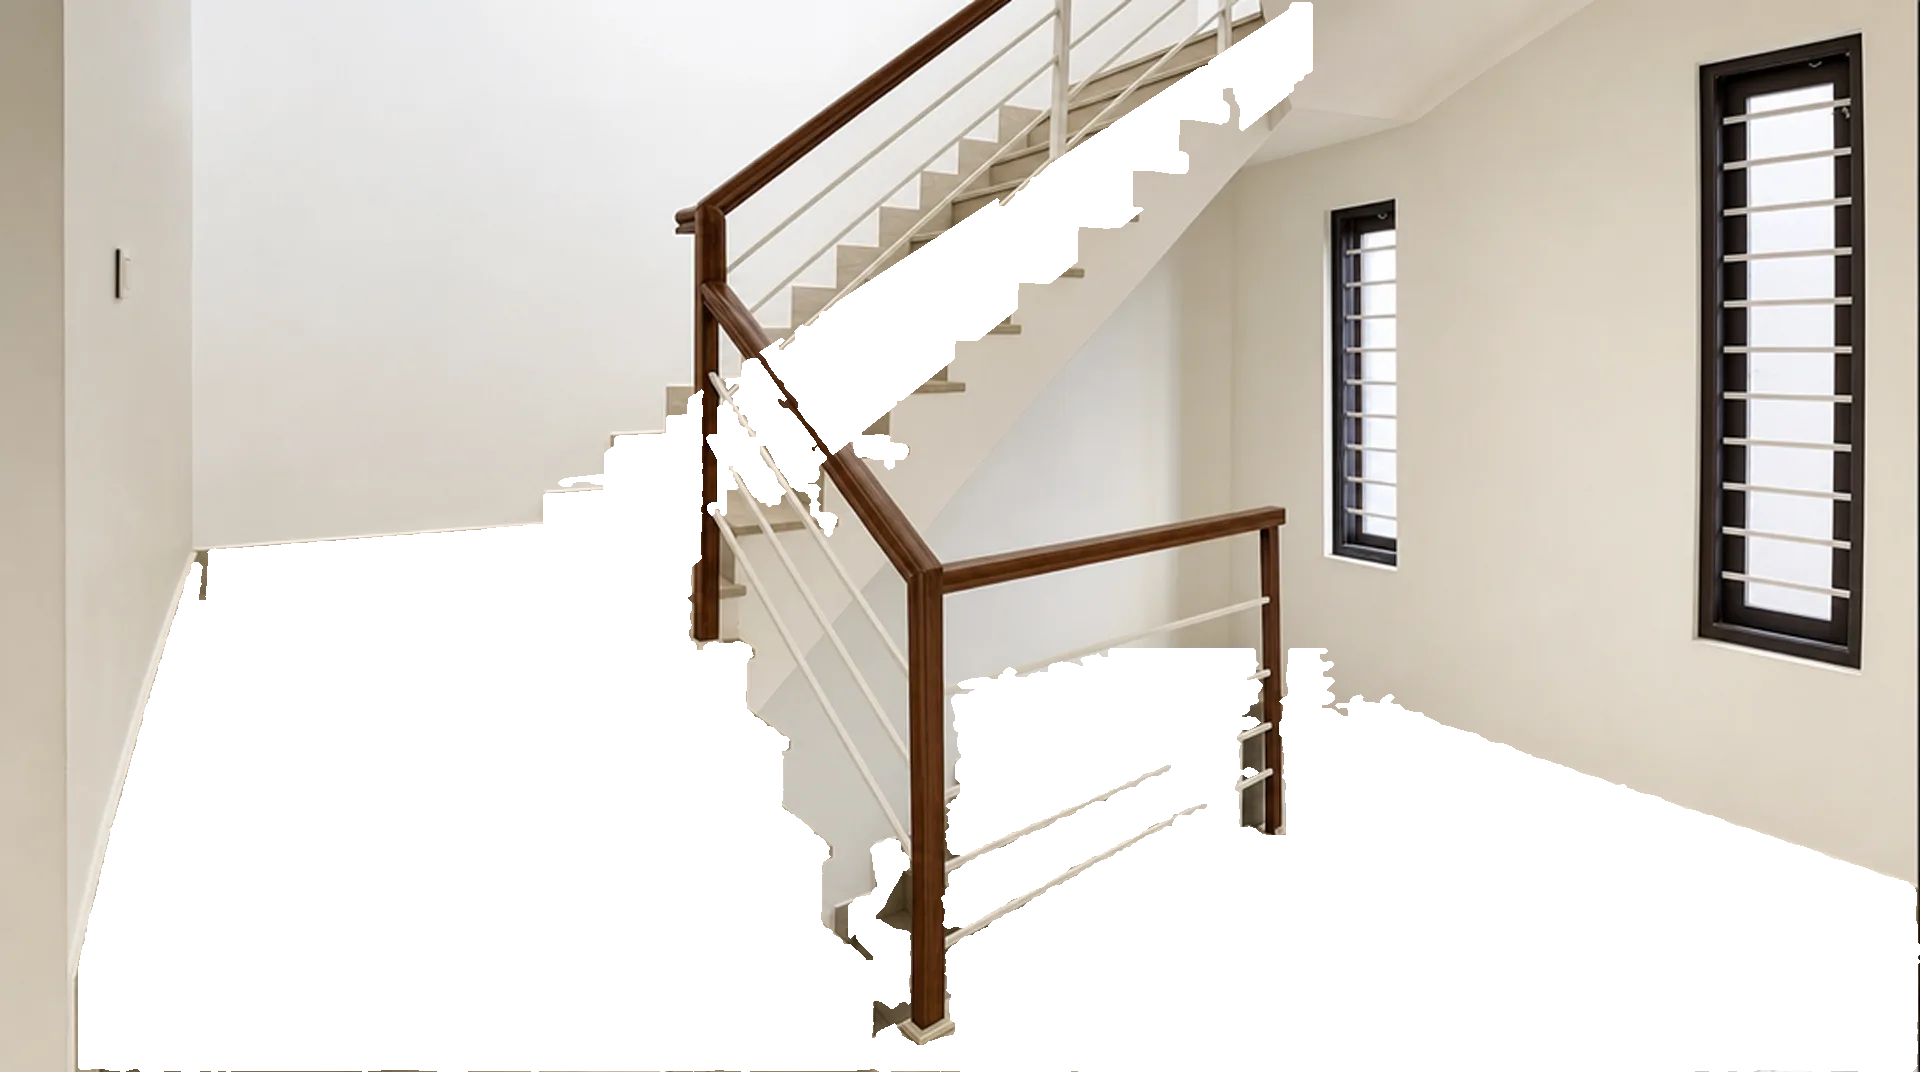
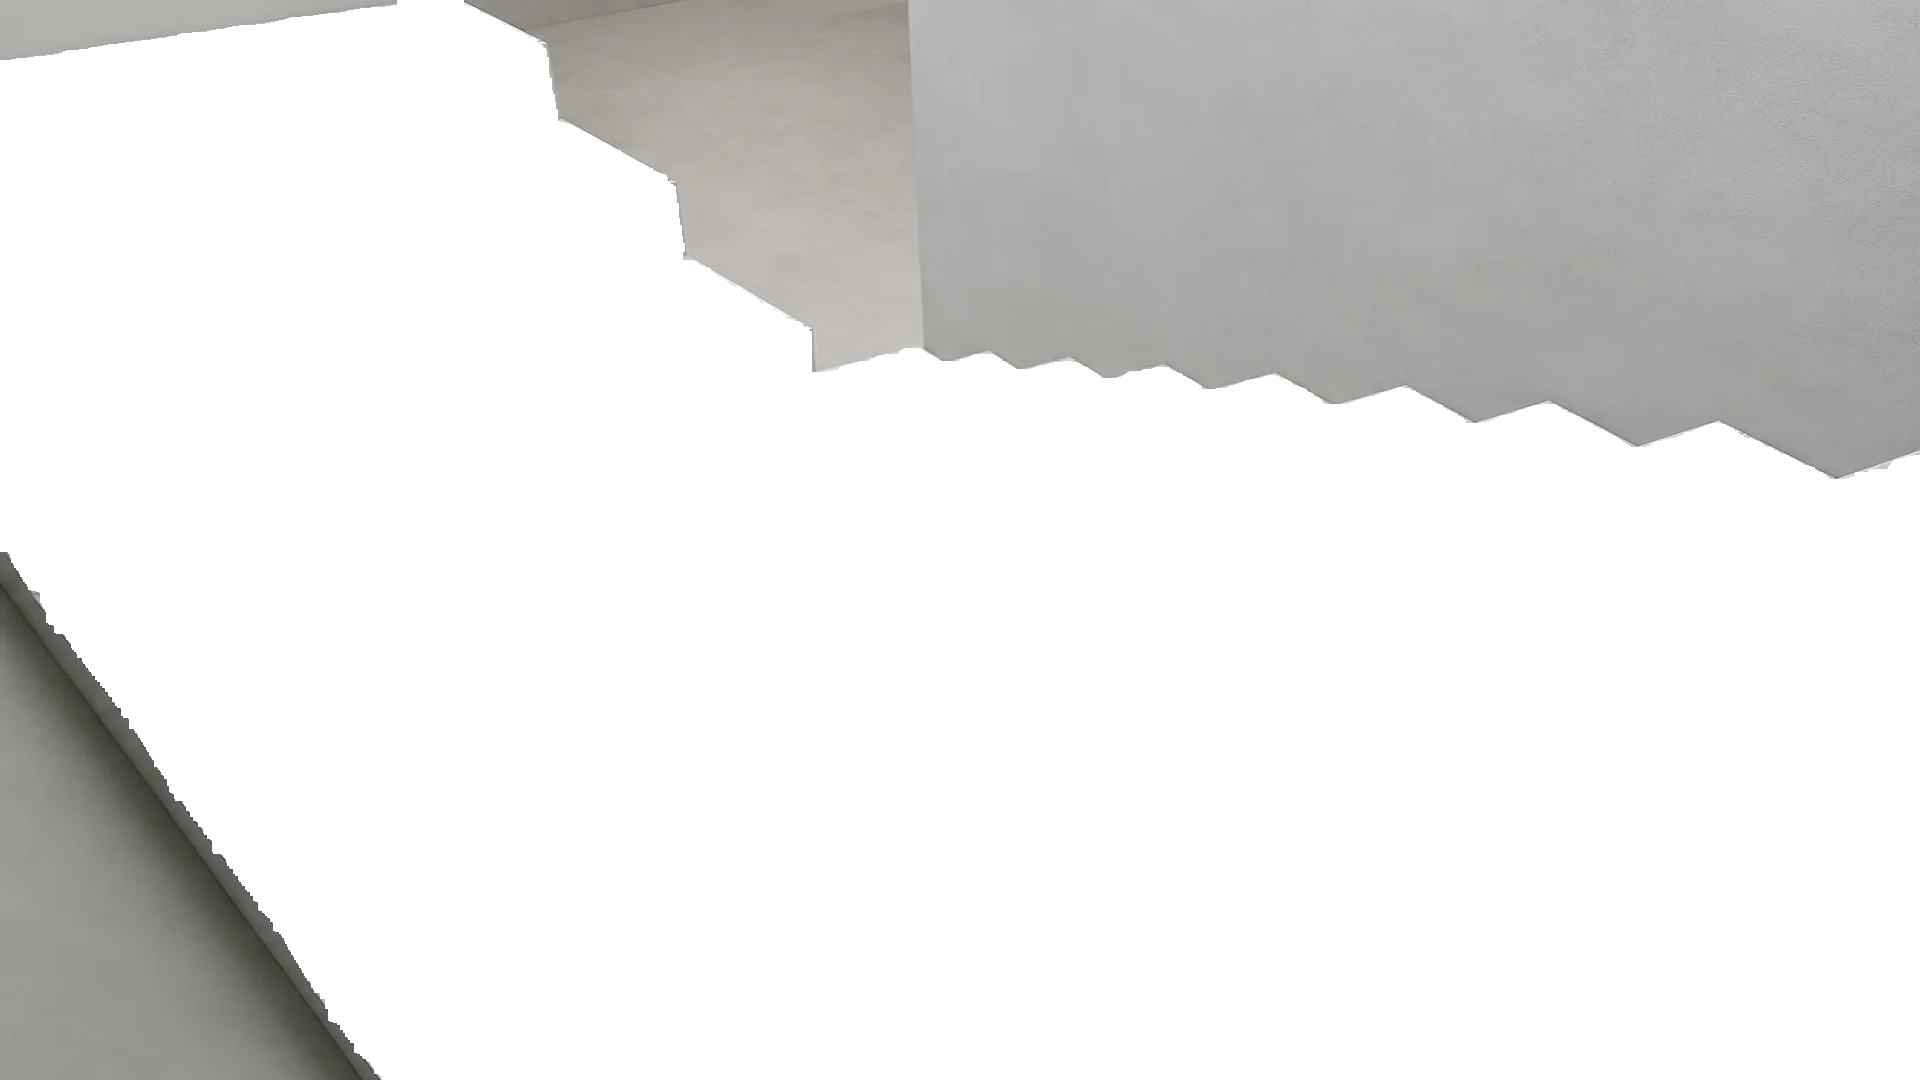
feat(2d): warp staircase tiles onto treads without mask holes

diff --git a/src/components/visualizer2d/composeRoom.js b/src/components/visualizer2d/composeRoom.js
@@ -5,7 +5,7 @@ import { loadImage } from './loadImage'
 /**
  * 2D room compositor — mask + fill + overlay with realism extras:
  *  - Seamless createPattern (stable default)
- *  - Optional floor/wall perspective quad (homography grid warp)
+ *  - Optional photo-plane quads (per-tread / landing warp, still 2D)
  *  - Luminance multiply from base.png (room light/shadow recovery)
  *  - Soft mask feather (no fake per-cell grid lines)
  *
@@ -396,14 +396,63 @@ function drawTexturedTriangle(ctx, img, s0, s1, s2, d0, d1, d2) {
   ctx.restore()
 }
 
-/** Normalize zone.perspectiveQuad (0–1 corners) → pixel quad. */
-function resolveQuad(zone, width, height) {
-  const q = zone.perspectiveQuad
+function toPixelQuad(q, width, height) {
   if (!q || q.length !== 4) return null
   return q.map((p) => ({
     x: (Array.isArray(p) ? p[0] : p.x) * width,
     y: (Array.isArray(p) ? p[1] : p.y) * height,
   }))
+}
+
+/** One or more photo-plane quads (normalized 0–1 corners, TL TR BR BL). */
+function resolveQuads(zone, width, height) {
+  if (Array.isArray(zone.perspectiveQuads) && zone.perspectiveQuads.length) {
+    return zone.perspectiveQuads.map((q) => toPixelQuad(q, width, height)).filter(Boolean)
+  }
+  const one = toPixelQuad(zone.perspectiveQuad, width, height)
+  return one ? [one] : []
+}
+
+function edgeLen(a, b) {
+  return Math.hypot(a.x - b.x, a.y - b.y)
+}
+
+/**
+ * Warp a screen-sized slice of the repeating pattern onto one dest quad.
+ * Source size follows the quad edges so tiles stay the right scale
+ * (mapping the full plate onto a tread would squash every tile onto one step).
+ */
+function warpPatternToQuad(patternCanvas, quad, width, height, grid) {
+  const [tl, tr, br, bl] = quad
+  const srcW = Math.max(16, Math.round((edgeLen(tl, tr) + edgeLen(bl, br)) / 2))
+  const srcH = Math.max(16, Math.round((edgeLen(tl, bl) + edgeLen(tr, br)) / 2))
+  const src = document.createElement('canvas')
+  src.width = srcW
+  src.height = srcH
+  const sctx = src.getContext('2d')
+  sctx.imageSmoothingEnabled = true
+  sctx.imageSmoothingQuality = 'high'
+  const pat = sctx.createPattern(patternCanvas, 'repeat')
+  if (pat) {
+    sctx.fillStyle = pat
+    sctx.fillRect(0, 0, srcW, srcH)
+  } else {
+    sctx.drawImage(patternCanvas, 0, 0)
+  }
+  return warpToQuad(src, quad, width, height, grid)
+}
+
+function compositeQuads(patternCanvas, quads, width, height, grid) {
+  const out = document.createElement('canvas')
+  out.width = width
+  out.height = height
+  const ctx = out.getContext('2d')
+  ctx.imageSmoothingEnabled = true
+  ctx.imageSmoothingQuality = 'high'
+  for (const quad of quads) {
+    ctx.drawImage(warpPatternToQuad(patternCanvas, quad, width, height, grid), 0, 0)
+  }
+  return out
 }
 
 function applyMask(layerCanvas, alphaMaskCanvas) {
@@ -455,10 +504,10 @@ function resolveTextureUrl(product, tier = 'full') {
   return null
 }
 
-function layerCacheKey(zoneId, product, tileScale, w, h, tier, groutOn, hasPersp, lightStr) {
+function layerCacheKey(zoneId, product, tileScale, w, h, tier, groutOn, quadCount, lightStr) {
   const id = product?.id || product?.url || 'none'
   // bump suffix when lighting/scale bake changes so old cache entries are not reused
-  return `${zoneId}|${id}|${tileScale}|${w}x${h}|${tier}|g${groutOn ? 1 : 0}|p${hasPersp ? 1 : 0}|L${lightStr}|r8`
+  return `${zoneId}|${id}|${tileScale}|${w}x${h}|${tier}|g${groutOn ? 1 : 0}|q${quadCount}|L${lightStr}|r10`
 }
 
 async function buildZoneLayer({
@@ -480,7 +529,7 @@ async function buildZoneLayer({
     return { layer: null, error: `“${product?.name || product?.id}” has no seamless tile` }
   }
 
-  const quad = resolveQuad(zone, width, height)
+  const quads = resolveQuads(zone, width, height)
   const cacheKey = layerCacheKey(
     zone.id,
     product,
@@ -489,7 +538,7 @@ async function buildZoneLayer({
     height,
     tier,
     !!grout?.enabled,
-    !!quad,
+    quads.length,
     lightStrength,
   )
   if (layerCache.has(cacheKey)) {
@@ -514,10 +563,14 @@ async function buildZoneLayer({
     grout,
   )
 
-  // Optional perspective: warp full pattern into room plane quad (floors mostly)
-  if (quad) {
+  // Photo-plane warp sits ON the seamless fill so mask pixels outside a
+  // quad (inner stair miters, nosing leftovers) still get tiles, not the
+  // base photo.
+  if (quads.length) {
     const grid = tier === 'lite' ? 14 : 28
-    layer = warpToQuad(layer, quad, width, height, grid)
+    const warped = compositeQuads(layer, quads, width, height, grid)
+    const ctx = layer.getContext('2d')
+    ctx.drawImage(warped, 0, 0)
   }
 
   const alphaMask = maskToAlphaCanvas(maskImg, width, height, 1, featherPx)

diff --git a/src/data/rooms2d.js b/src/data/rooms2d.js
@@ -75,7 +75,7 @@ export const rooms2d = [
   {
     id: 'staircase-c',
     name: 'Staircase',
-    blurb: 'PRD Model C · upper+lower treads, sides locked',
+    blurb: 'PRD Model C · treads + landing, sides locked',
     baseUrl: W('staircase-c', 'base'),
     overlayUrl: W('staircase-c', 'overlay-locked'),
     roomWidthMM: 4200,
@@ -84,7 +84,22 @@ export const rooms2d = [
     lightStrength: 0.88,
     grout: { enabled: false, color: '#d4cdc0' },
     zones: [
-      { id: 'floor', label: 'Stairs', surface: 'Floor', maskUrl: W('staircase-c', 'mask-floor') },
+      {
+        id: 'floor',
+        label: 'Stairs',
+        surface: 'Floor',
+        maskUrl: W('staircase-c', 'mask-floor'),
+        // Photo planes only (Kajaria/Tilesview-style). Landing first, then left treads.
+        perspectiveQuads: [
+          [[0.39583, 0.25926], [0.99948, 0.31481], [0.99948, 0.99907], [0.13021, 0.99907]],
+          [[0.0, 0.07222], [0.318, 0.0], [0.305, 0.168], [0.0, 0.198]],
+          [[0.0, 0.1713], [0.352, 0.105], [0.338, 0.275], [0.0, 0.328]],
+          [[0.0, 0.29444], [0.392, 0.212], [0.378, 0.405], [0.0, 0.472]],
+          [[0.0, 0.42407], [0.438, 0.328], [0.422, 0.545], [0.02, 0.622]],
+          [[0.032, 0.57222], [0.472, 0.462], [0.455, 0.705], [0.068, 0.798]],
+          [[0.078, 0.74074], [0.505, 0.612], [0.488, 0.86], [0.112, 0.955]],
+        ],
+      },
     ],
   },
   // Model D — Feature Wall (wall only — no floor zone)
